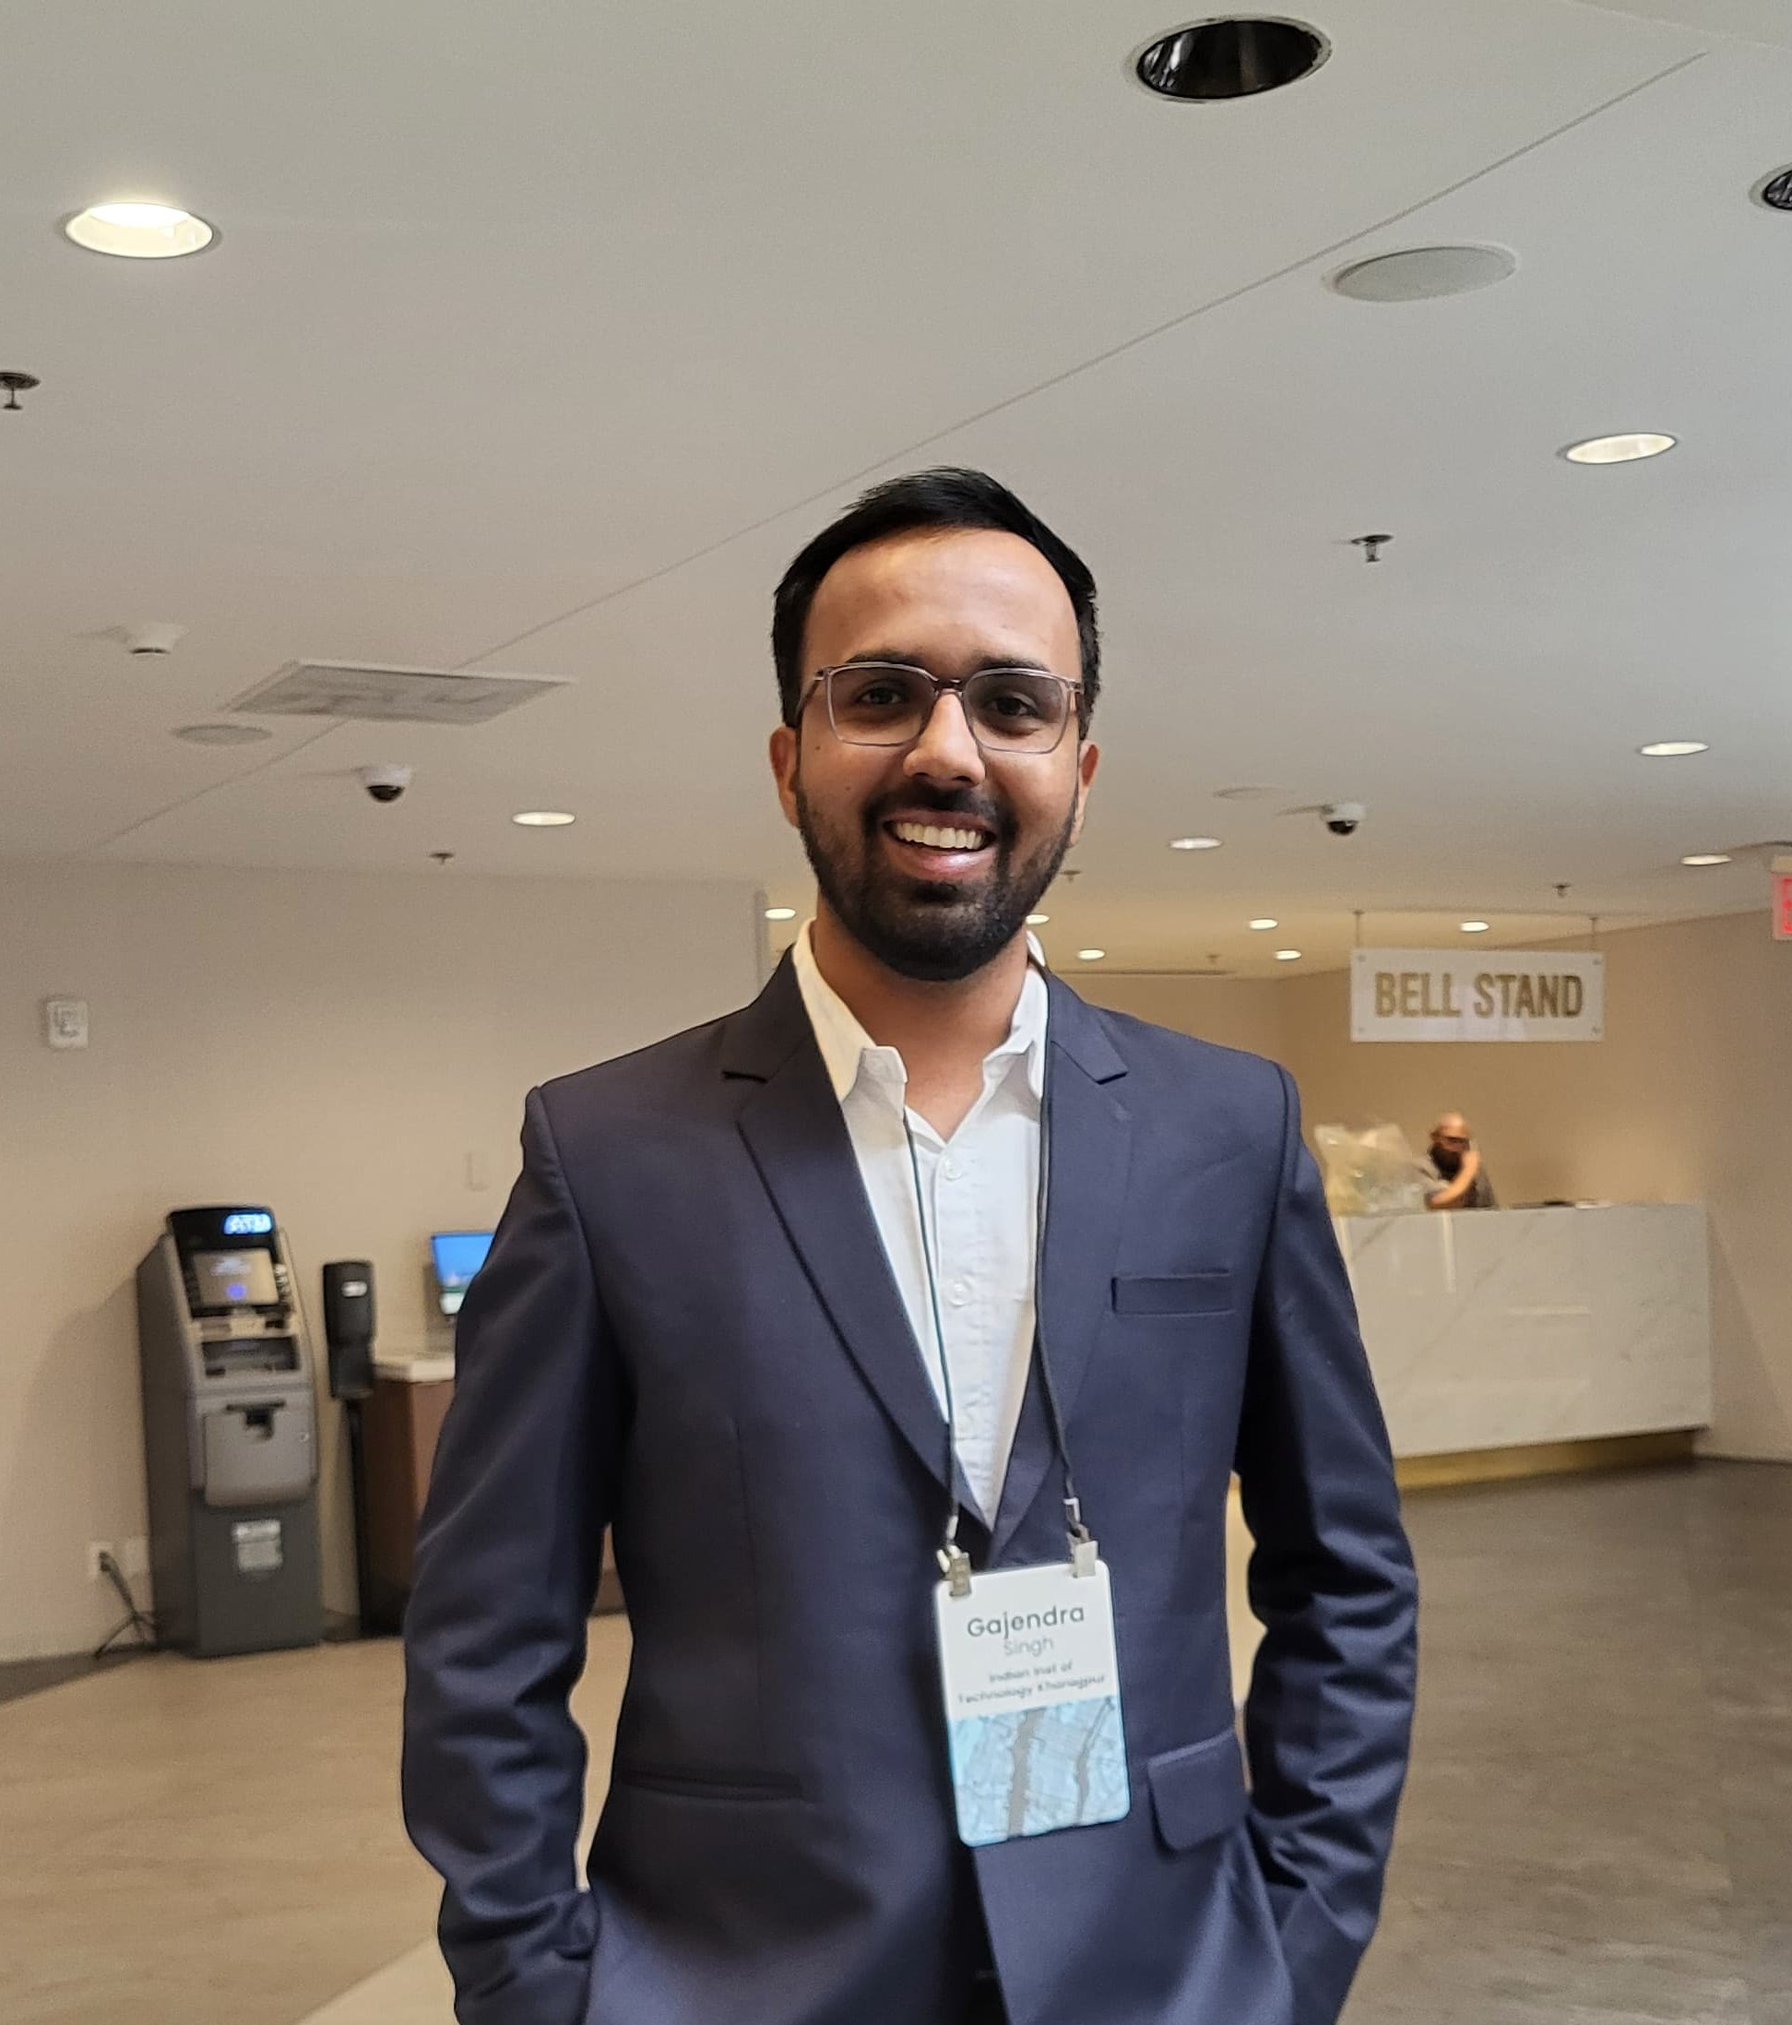
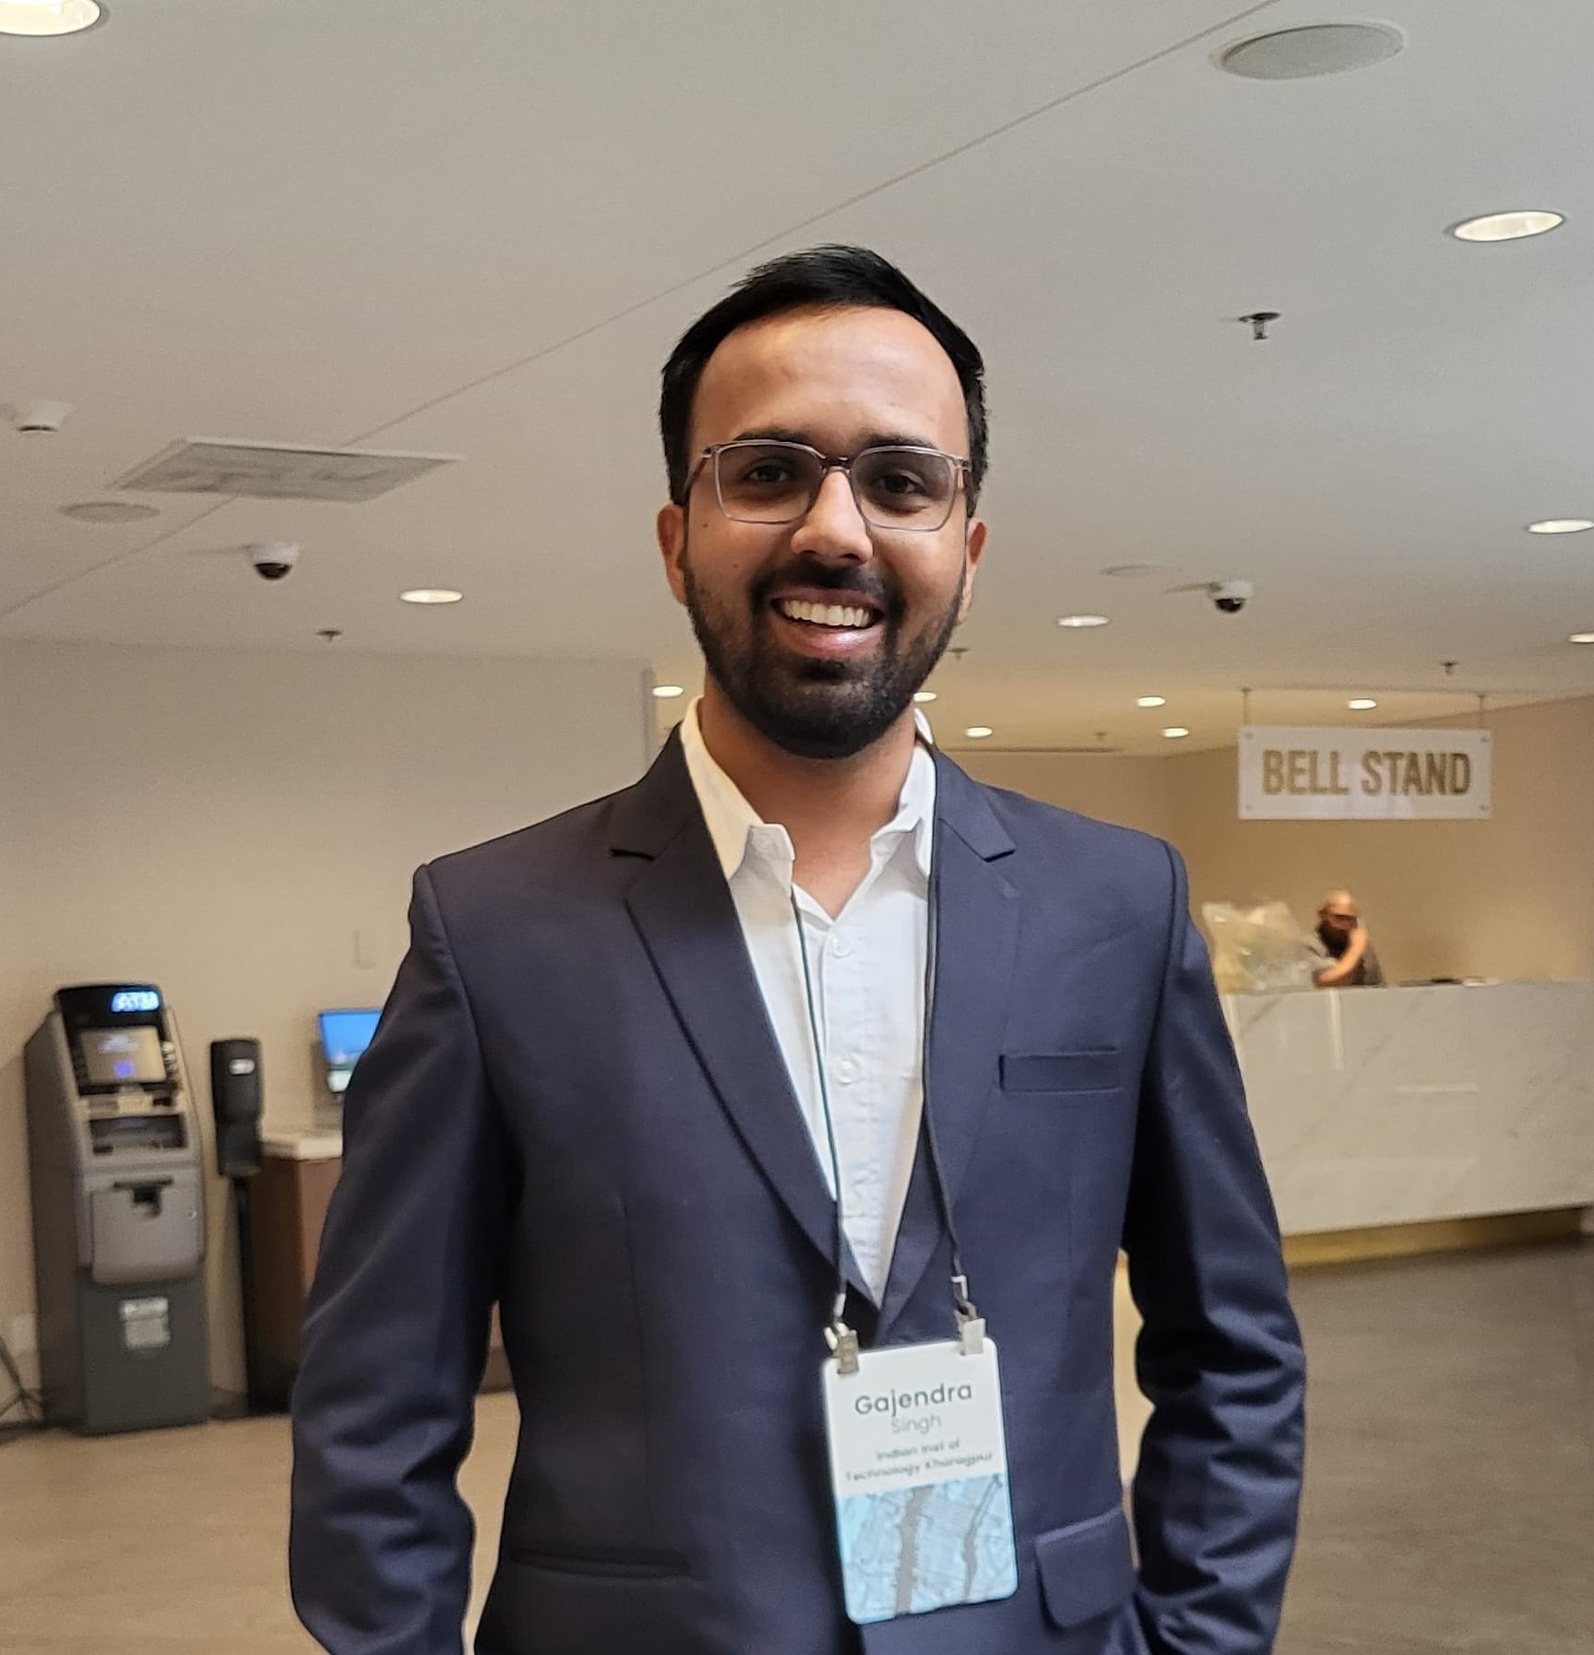
Update: Profile picture with fixed cache busting

diff --git a/app/page.tsx b/app/page.tsx
@@ -135,12 +135,13 @@ export default function Home() {
               <div className="absolute inset-0 bg-blue-600 rounded-full opacity-20 blur-2xl transform scale-110"></div>
               <div className="relative w-full h-full rounded-full border-4 border-blue-600 overflow-hidden shadow-2xl transition-transform duration-300 hover:scale-105">
                 <Image
-                  src={`${process.env.NODE_ENV === 'production' ? '/Gajendra' : ''}/images/profile.jpeg?v=${new Date().getTime()}`}
+                  src={`${process.env.NODE_ENV === 'production' ? '/Gajendra' : ''}/images/profile.jpeg?v=16032024094500`}
                   alt="Gajendra Singh - Data Scientist"
                   width={320}
                   height={320}
                   style={{ objectFit: 'cover', objectPosition: 'center', width: '100%', height: '100%' }}
                   priority
+                  unoptimized
                   className="rounded-full"
                   onError={(e) => {
                     const target = e.target as HTMLImageElement;
